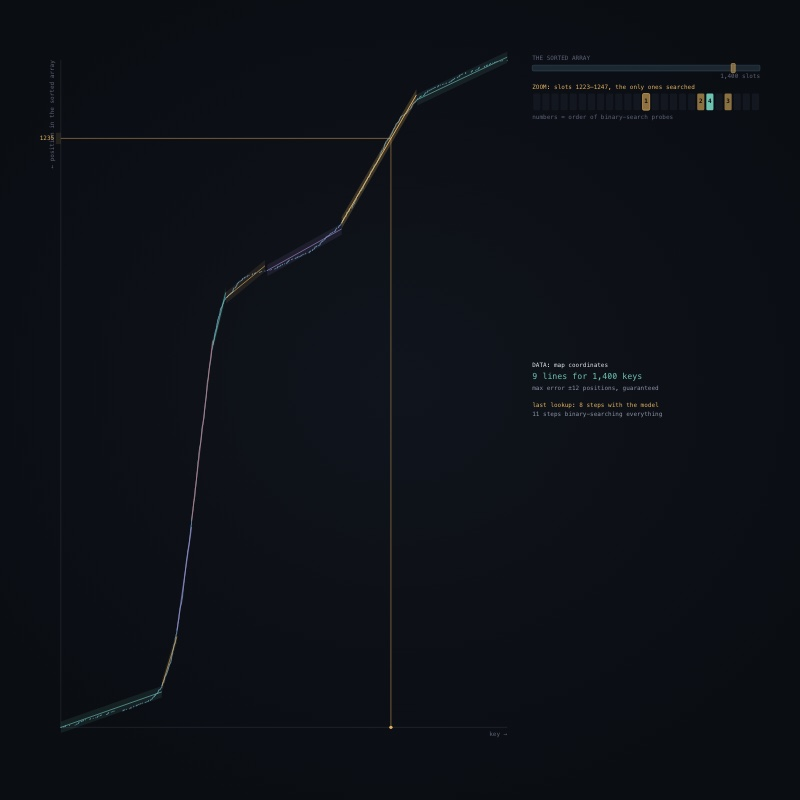
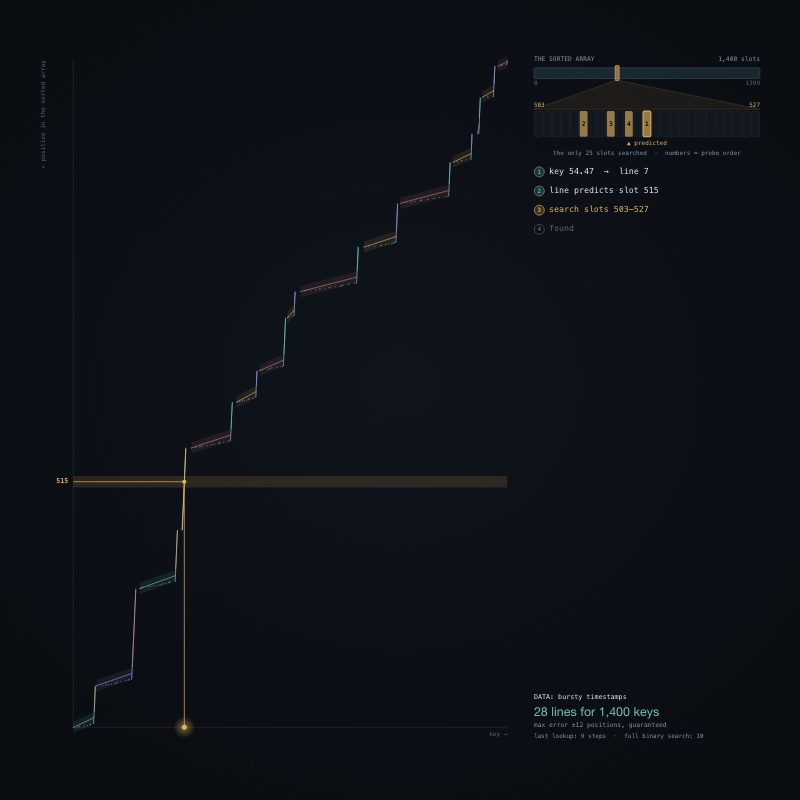
learned-index: clearer at a glance — larger lookup panel with a numbered predict → window → found stepper
Regenerated from the Data Structures project after a review of every scene's
first minute: fuller stage, larger text, the payoff sooner, and phone taps that
show within a second (the in-flight operation completes instantly first).

diff --git a/experiences/learned-index/web/js/scenes/learned.js b/experiences/learned-index/web/js/scenes/learned.js
@@ -65,6 +65,7 @@
     duration: 64,
     idea: "Replace the index with a model that predicts where each key is stored.",
     glance: 2,
+    preempt: false,          // interrupts its own operations safely (see act)
     legend: [["sky", "stored keys"], ["teal", "model lines (±12)"], ["amber", "a lookup"]],
     notes: [
       'Plot each stored key against its position in the sorted list. The curve is the shape of the data — its cumulative distribution.',
@@ -139,8 +140,9 @@
 
     act(id) {
       const s = this.steps;
-      if (s.length > 3) return;
-      if (id === 'lookup') s.run(() => this.lookupGen());
+      if (s.length > 3 && id !== 'lookup') return;
+      // a new lookup starts now, cutting short any lookup or fit in progress
+      if (id === 'lookup') { s.clear(); this.shown = this.segs.length; this.look = null; s.run(() => this.lookupGen()); }
       else if (id === 'data') { s.clear(); this.di = (this.di + 1) % 3; this.load(); s.run(() => this.buildGen()); }
       else if (id === 'rebuild') { s.clear(); s.run(() => this.buildGen()); }
     },
@@ -158,7 +160,7 @@
 
     draw(g) {
       const S = DS.stage, u = DS.u;
-      const cx0 = S.x + 50 * u, cw = S.w * 0.62, cy0 = S.y + 10 * u, ch = S.h - 50 * u;
+      const cx0 = S.x + 80 * u, cw = S.w * 0.62 - 30 * u, cy0 = S.y + 10 * u, ch = S.h - 50 * u;
       const X = (k) => cx0 + ((k - this.kmin) / (this.kmax - this.kmin)) * cw;
       const Y = (p) => cy0 + ch - (p / (N - 1)) * ch;
       const L = this.look;
@@ -166,9 +168,9 @@
       // axes
       DS.line(g, cx0, cy0 + ch, cx0 + cw, cy0 + ch, DS.rgba(C.dim, 0.35), 1 * u);
       DS.line(g, cx0, cy0, cx0, cy0 + ch, DS.rgba(C.dim, 0.35), 1 * u);
-      DS.text(g, 'key →', cx0 + cw, cy0 + ch + 16 * u, { size: 12 * u, mono: true, color: C.mute, align: 'right' });
-      g.save(); g.translate(cx0 - 20 * u, cy0); g.rotate(-Math.PI / 2);
-      DS.text(g, '← position in the sorted array', 0, 0, { size: 12 * u, mono: true, color: C.mute, align: 'right' });
+      DS.text(g, 'key →', cx0 + cw, cy0 + ch + 18 * u, { size: 14 * u, mono: true, color: C.mute, align: 'right' });
+      g.save(); g.translate(cx0 - 72 * u, cy0); g.rotate(-Math.PI / 2);
+      DS.text(g, '← position in the sorted array', 0, 0, { size: 14 * u, mono: true, color: C.mute, align: 'right' });
       g.restore();
 
       // the data: every key at its position
@@ -194,48 +196,84 @@
       // the lookup
       if (L) {
         const x = X(L.k);
-        DS.line(g, x, cy0 + ch, x, Y(L.pred), DS.rgba(C.amber, 0.8), 1.4 * u);
-        DS.circle(g, x, cy0 + ch, 4 * u, C.amber);
+        DS.line(g, x, cy0 + ch, x, Y(L.pred), DS.rgba(C.amber, 0.85), 2 * u);
+        DS.halo(g, x, cy0 + ch, 26 * u, C.amber, 0.5);
+        DS.circle(g, x, cy0 + ch, 6 * u, C.amber);
+        if (L.stage === 0) DS.text(g, `key ${L.k.toFixed(2)}`, x, cy0 + ch + 20 * u, { size: 15 * u, mono: true, color: C.amber });
         if (L.stage >= 1) {
-          DS.line(g, cx0, Y(L.pred), x, Y(L.pred), DS.rgba(C.amber, 0.8), 1.4 * u);
-          g.fillStyle = DS.rgba(C.amber, 0.12);
-          g.fillRect(cx0 - 12 * u, Y(L.hi), 12 * u, Y(L.lo) - Y(L.hi));
-          DS.text(g, `${L.pred}`, cx0 - 16 * u, Y(L.pred), { size: 13 * u, mono: true, color: C.amber, align: 'right' });
+          // the ±12 band the answer must lie in
+          g.fillStyle = DS.rgba(C.amber, 0.14);
+          g.fillRect(cx0, Y(L.hi), cw, Math.max(3 * u, Y(L.lo) - Y(L.hi)));
+          DS.line(g, cx0, Y(L.pred), x, Y(L.pred), DS.rgba(C.amber, 0.85), 2 * u);
+          DS.circle(g, x, Y(L.pred), 5 * u, C.amber);
+          DS.text(g, `${L.pred}`, cx0 - 12 * u, Y(L.pred), { size: 16 * u, mono: true, weight: 600, color: C.amber, align: 'right' });
         }
       }
 
-      // right: the array window
-      const rx = cx0 + cw + 60 * u, rw = S.x1 - rx;
-      DS.text(g, 'THE SORTED ARRAY', rx, S.y + 6 * u, { size: 12 * u, mono: true, color: C.mute, align: 'left' });
-      const bar = 14 * u;
-      DS.box(g, rx, S.y + 22 * u, rw, bar, 3 * u, DS.rgba(C.sky, 0.15), DS.rgba(C.sky, 0.4), 1 * u);
-      DS.text(g, `${N.toLocaleString('en-US')} slots`, rx + rw, S.y + 50 * u, { size: 12 * u, mono: true, color: C.mute, align: 'right' });
-      if (L && L.stage >= 1) {
-        const wx = rx + (L.lo / N) * rw, ww = Math.max(3 * u, ((L.hi - L.lo + 1) / N) * rw);
-        DS.box(g, wx, S.y + 18 * u, ww, bar + 8 * u, 2 * u, DS.rgba(C.amber, 0.5), C.amber, 1.2 * u);
-        // zoom
-        const zy = S.y + 90 * u;
-        DS.text(g, `ZOOM: slots ${L.lo}–${L.hi}, the only ones searched`, rx, zy - 14 * u, { size: 12 * u, mono: true, color: C.amber, align: 'left' });
-        const n = L.hi - L.lo + 1, zc = rw / n;
-        const probes = L.probes.slice(0, L.shownProbes);
-        for (let i = 0; i < n; i++) {
-          const p = L.lo + i;
-          const x = rx + i * zc;
-          const probed = probes.indexOf(p);
-          const hit = p === L.idx && probed >= 0;
-          DS.box(g, x + 1, zy, zc - 2, 40 * u, 3 * u, hit ? C.teal : probed >= 0 ? DS.rgba(C.amber, 0.6) : C.cell, p === L.pred ? C.amber : null, 1.5 * u);
-          if (probed >= 0) DS.text(g, String(probed + 1), x + zc / 2, zy + 20 * u, { size: Math.min(12 * u, zc * 0.6), mono: true, color: C.dark, weight: 700 });
-        }
-        DS.text(g, 'numbers = order of binary-search probes', rx, zy + 58 * u, { size: 12 * u, mono: true, color: C.mute, align: 'left' });
+      // right: the sorted array, the 25-slot window, and the lookup told as steps
+      const rx = cx0 + cw + 64 * u, rw = S.x1 - rx;
+      let y = S.y + 8 * u;
+      DS.text(g, 'THE SORTED ARRAY', rx, y, { size: 15 * u, mono: true, color: C.dim, align: 'left' });
+      DS.text(g, `${N.toLocaleString('en-US')} slots`, rx + rw, y, { size: 15 * u, mono: true, color: C.dim, align: 'right' });
+      const barY = y + 20 * u, bar = 26 * u;
+      DS.box(g, rx, barY, rw, bar, 4 * u, DS.rgba(C.sky, 0.15), DS.rgba(C.sky, 0.45), 1 * u);
+      DS.text(g, '0', rx, barY + bar + 13 * u, { size: 12 * u, mono: true, color: C.mute, align: 'left' });
+      DS.text(g, String(N - 1), rx + rw, barY + bar + 13 * u, { size: 12 * u, mono: true, color: C.mute, align: 'right' });
+      const zy = barY + bar + 78 * u, zh = 62 * u;
+      const n = 2 * EPS + 1, zc = rw / n;
+      const act = L && L.stage >= 1;
+      if (act) {
+        const wx = rx + (L.lo / N) * rw, ww = Math.max(4 * u, ((L.hi - L.lo + 1) / N) * rw);
+        DS.box(g, wx, barY - 5 * u, ww, bar + 10 * u, 2 * u, DS.rgba(C.amber, 0.55), C.amber, 1.5 * u);
+        // zoom funnel from the window on the bar to the 25 slots below
+        g.beginPath();
+        g.moveTo(wx, barY + bar + 5 * u); g.lineTo(wx + ww, barY + bar + 5 * u);
+        g.lineTo(rx + rw, zy - 4 * u); g.lineTo(rx, zy - 4 * u); g.closePath();
+        g.fillStyle = DS.rgba(C.amber, 0.08); g.fill();
+        g.strokeStyle = DS.rgba(C.amber, 0.35); g.lineWidth = 1 * u; g.stroke();
       }
-      const sy = S.y + S.h * 0.45;
-      DS.text(g, `DATA: ${this.name}`, rx, sy, { size: 12 * u, mono: true, color: C.ink, align: 'left' });
-      DS.text(g, `${this.segs.length} lines for ${N.toLocaleString('en-US')} keys`, rx, sy + 28 * u, { size: 20 * u, mono: true, weight: 300, color: C.teal, align: 'left' });
-      DS.text(g, `max error ±${EPS} positions, guaranteed`, rx, sy + 54 * u, { size: 12 * u, mono: true, color: C.dim, align: 'left' });
-      if (this.lastCost) {
-        DS.text(g, `last lookup: ${this.lastCost.model} steps with the model`, rx, sy + 96 * u, { size: 13 * u, mono: true, color: C.amber, align: 'left' });
-        DS.text(g, `${this.lastCost.full} steps binary-searching everything`, rx, sy + 118 * u, { size: 13 * u, mono: true, color: C.dim, align: 'left' });
+      const probes = act ? L.probes.slice(0, L.shownProbes) : [];
+      for (let i = 0; i < n; i++) {
+        const p = act ? L.lo + i : -1;
+        const x = rx + i * zc;
+        const probed = probes.indexOf(p);
+        const hit = act && p === L.idx && probed >= 0;
+        const fill = !act ? DS.rgba(C.cell, 0.6) : hit ? C.teal : probed >= 0 ? DS.rgba(C.amber, 0.65) : C.cell;
+        DS.box(g, x + 1.5 * u, zy, zc - 3 * u, zh, 3 * u, fill, act && p === L.pred ? C.amber : DS.rgba(C.dim, act ? 0.25 : 0.12), (act && p === L.pred ? 2.5 : 1) * u);
+        if (probed >= 0) DS.text(g, String(probed + 1), x + zc / 2, zy + zh / 2, { size: Math.min(18 * u, zc * 0.7), mono: true, color: C.dark, weight: 700 });
       }
+      if (act) {
+        const px = rx + (L.pred - L.lo + 0.5) * zc;
+        DS.text(g, '▲ predicted', px, zy + zh + 16 * u, { size: 13 * u, mono: true, color: C.amber, align: px > rx + rw * 0.7 ? 'right' : px < rx + rw * 0.3 ? 'left' : 'center' });
+        DS.text(g, String(L.lo), rx, zy - 14 * u, { size: 13 * u, mono: true, color: C.amber, align: 'left' });
+        DS.text(g, String(L.hi), rx + rw, zy - 14 * u, { size: 13 * u, mono: true, color: C.amber, align: 'right' });
+      }
+      DS.text(g, act ? 'the only 25 slots searched  ·  numbers = probe order' : 'a lookup searches just 25 slots like these', rx + rw / 2, zy + zh + 40 * u, { size: 13 * u, mono: true, color: act ? C.dim : C.mute });
+
+      // the lookup, as numbered steps: amber = now, teal = done
+      let sy = zy + zh + 84 * u;
+      const found = L && L.stage >= 2 && L.shownProbes === L.probes.length;
+      const steps = [
+        [L ? `key ${L.k.toFixed(2)}  →  line ${L.seg + 1}` : 'pick the line for the key', L ? (L.stage > 0 ? 2 : 1) : 0],
+        [L && L.stage >= 1 ? `line predicts slot ${L.pred}` : 'the line predicts a slot', L ? (L.stage > 1 ? 2 : L.stage === 1 ? 1 : 0) : 0],
+        [L && L.stage >= 1 ? `search slots ${L.lo}–${L.hi}` : `search ±${EPS} around it`, L ? (found ? 2 : L.stage === 2 ? 1 : 0) : 0],
+        [found ? `found at ${L.idx}  ·  off by ${Math.abs(L.idx - L.pred)}` : 'found', found ? 3 : 0],
+      ];
+      const dataY = S.y1 - 112 * u;
+      const lh = DS.clamp((dataY - sy - 40 * u) / 3.5, 26 * u, 46 * u);
+      steps.forEach(([t, st], i) => {
+        const col = st === 3 ? C.teal : st === 2 ? DS.rgba(C.teal, 0.85) : st === 1 ? C.amber : C.mute;
+        DS.circle(g, rx + 13 * u, sy + i * lh, 12 * u, st ? DS.rgba(st === 1 ? C.amber : C.teal, 0.2) : null, col, 1.5 * u);
+        DS.text(g, String(i + 1), rx + 13 * u, sy + i * lh + 0.5 * u, { size: 13 * u, mono: true, weight: 700, color: col });
+        DS.text(g, t, rx + 36 * u, sy + i * lh, { size: 20 * u, mono: true, weight: st ? 500 : 400, color: st ? (st === 1 ? C.amber : C.ink) : C.mute, align: 'left' });
+      });
+
+      // the model and the data
+      sy = Math.max(sy + 3 * lh + 40 * u, dataY);
+      DS.text(g, `DATA: ${this.name}`, rx, sy, { size: 16 * u, mono: true, color: C.ink, align: 'left' });
+      DS.text(g, `${this.segs.length} lines for ${N.toLocaleString('en-US')} keys`, rx, sy + 36 * u, { size: 30 * u, weight: 400, color: C.teal, align: 'left' });
+      DS.text(g, `max error ±${EPS} positions, guaranteed`, rx, sy + 68 * u, { size: 15 * u, mono: true, color: C.dim, align: 'left' });
+      if (this.lastCost) DS.text(g, `last lookup: ${this.lastCost.model} steps  ·  full binary search: ${this.lastCost.full}`, rx, sy + 94 * u, { size: 14 * u, mono: true, color: C.dim, align: 'left' });
     },
 
     stats() {

diff --git a/experiences/learned-index/web/js/main.js b/experiences/learned-index/web/js/main.js
@@ -247,6 +247,10 @@
       if (st.pending >= 0 || !(s.actions || []).some((a) => a.id === id)) return false;
       activity();
       st.autoHold = st.t + 14;   // let the visitor's op play out before autoplay resumes
+      // A tap must show within a second: finish whatever is mid-flight and start
+      // the visitor's action now. Scenes that manage interruption themselves
+      // (a scripted story, say) set `preempt: false`.
+      if (s.preempt !== false && s.steps && s.steps.preempt) s.steps.preempt();
       s.act(id);
       return true;
     },
@@ -396,7 +400,7 @@
   renderMode();
   const warp = Math.min(600, parseFloat(params.get('warp')) || 0);
   for (let t = 0; t < warp; t += 1 / 30) { DS.time = st.t += 1 / 30; cur().update(1 / 30, true); }
-  if (warp) st.fade = 1;
+  if (warp) { st.fade = 1; if (opPending) { const [t, tone] = opPending; opPending = null; showOp(t, tone); } }
   if (params.has('clean')) document.querySelectorAll('.hud').forEach((e) => { e.style.display = 'none'; });
   requestAnimationFrame(frame);
 })();

diff --git a/experiences/learned-index/web/js/core.js b/experiences/learned-index/web/js/core.js
@@ -138,6 +138,21 @@
     clear() { this.q.length = 0; this.wait = 0; }
     run(job) { this.q.push(job); return this; }
     hold(s) { this.q.push(() => s); return this; }
+    // Make room for a visitor: finish the operation in flight instantly (so the
+    // structure is never left half-changed), and drop queued work that hasn't
+    // started. Generators are run to completion with their holds skipped.
+    preempt() {
+      const head = this.q[0];
+      this.q.length = 0;
+      this.wait = 0;
+      if (head && typeof head.next === 'function') {
+        for (let guard = 0; guard < 100000; guard++) {
+          const { value, done } = head.next();
+          if (done) break;
+          if (value && typeof value.next === 'function') { /* nested generator objects are driven by yield* already */ }
+        }
+      }
+    }
     update(dt) {
       this.wait -= dt;
       let guard = 0;
